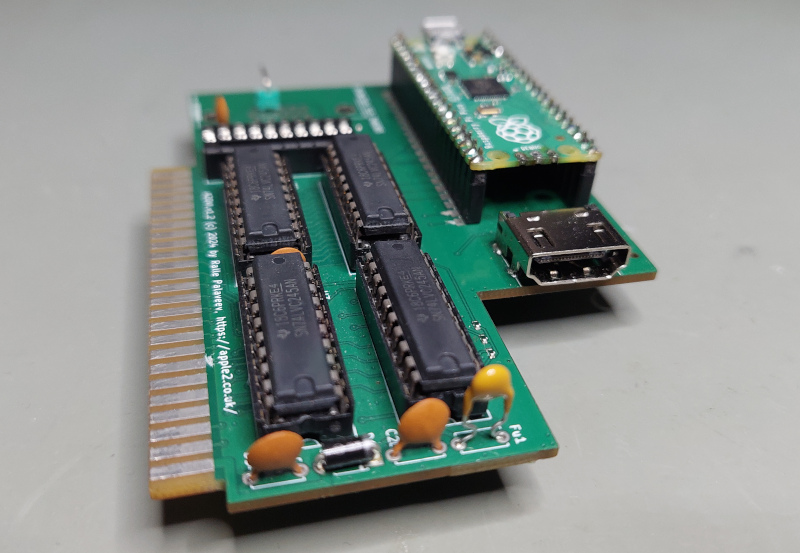
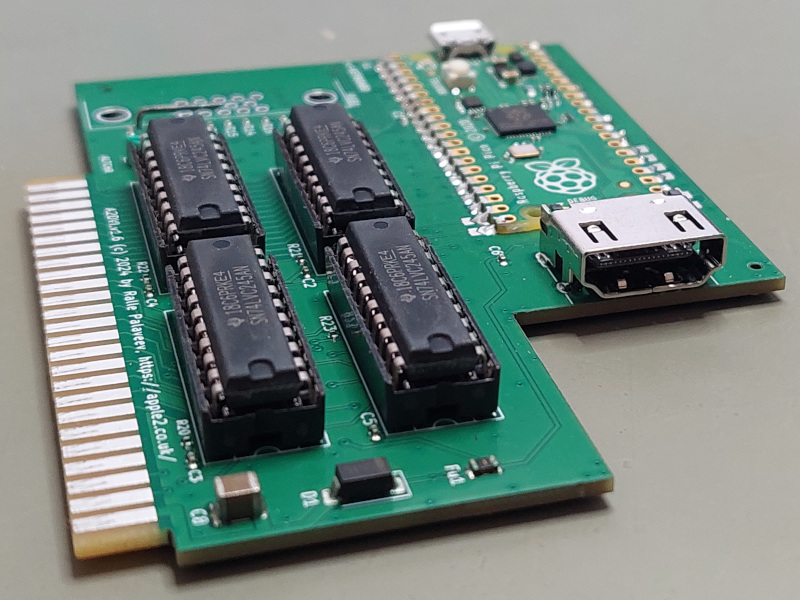
Extended README to also mention the PICO2. PICO2 is fully supported and successfully tested now.

diff --git a/README.md b/README.md
@@ -5,22 +5,21 @@ It directly produces a digital video stream from the Apple II's memory content.
 The signal is output via an HDMI connector, connecting the Apple II to modern displays with HDMI (or DVI) inputs.
 No more analog signal conversion required.
 
+![A2DVI PCB v1.2](images/A2DVI_PCB1.jpg)
+
 The project is a collaboration with Ralle Palaveev. His related hardware project is here:
 
 * [A2DVI Hardware](https://github.com/rallepalaveev/A2DVI)
 
-<b>
-Hardware and firmware are already working, however, the project is currently being tested.
-Firmware builds and Gerber files will be published once initial testing is completed.
-Currently (July 2024) we're waiting for a batch of updated PCBs.
-</b>
+The hardware is based on the PICO controller board.
+Both, original **PICO (RP2040)** and newer **PICO2 (RP2350)** mouldes are supported.
+Separate firmware is provided for the two PICO variants.
 
-<b>
-Please be a little patient.
-Check out the discussion topic in the AppleFritter forum, if you want to help with testing.
-</b>
+![PICO_vs_PICO2](images/PICO_PICO2.jpg)
 
-![A2DVI PCB v1.2](images/A2DVI_PCB1.jpg)
+*Currently, there is no difference in A2DVI functionality when using PICO or PICO2.
+PICO2 is pin-compatible but has a more powerful CPU, more memory, more flash and improved I/O.
+However, the original PICO is capable enough for A2DVI - and still has resources available for future extensions.*
 
 # About the A2DVI-Firmware
 The firmware is based on a combination of the Apple II VGA firmware projects by Mark Aikens and David Kuder.
@@ -31,7 +30,7 @@ Here's a brief look at the architecture:
 
 <pre>
                       +-------------------------------------------------------------------------+
-                      |                         PICO Microcontroller (RP2040)                   |
+                      |                   PICO Microcontroller (RP2040 or RP2350)               |
                       |                                                                         |
      +------+         |     +---------+         +-----------------+        +-----------------+  |
      | 6502 |_________|_____| PIO #1  |_________|   ARM Core #1   |________|   ARM Core #2   |  |
@@ -194,6 +193,8 @@ Firmware updates of an A2DVI card are easy and safe:
 * **Custom fonts**.
 
 * **Debug display**.
+
+* **PICO2 (RP2350) support **.
 
 ## TODOs
 
